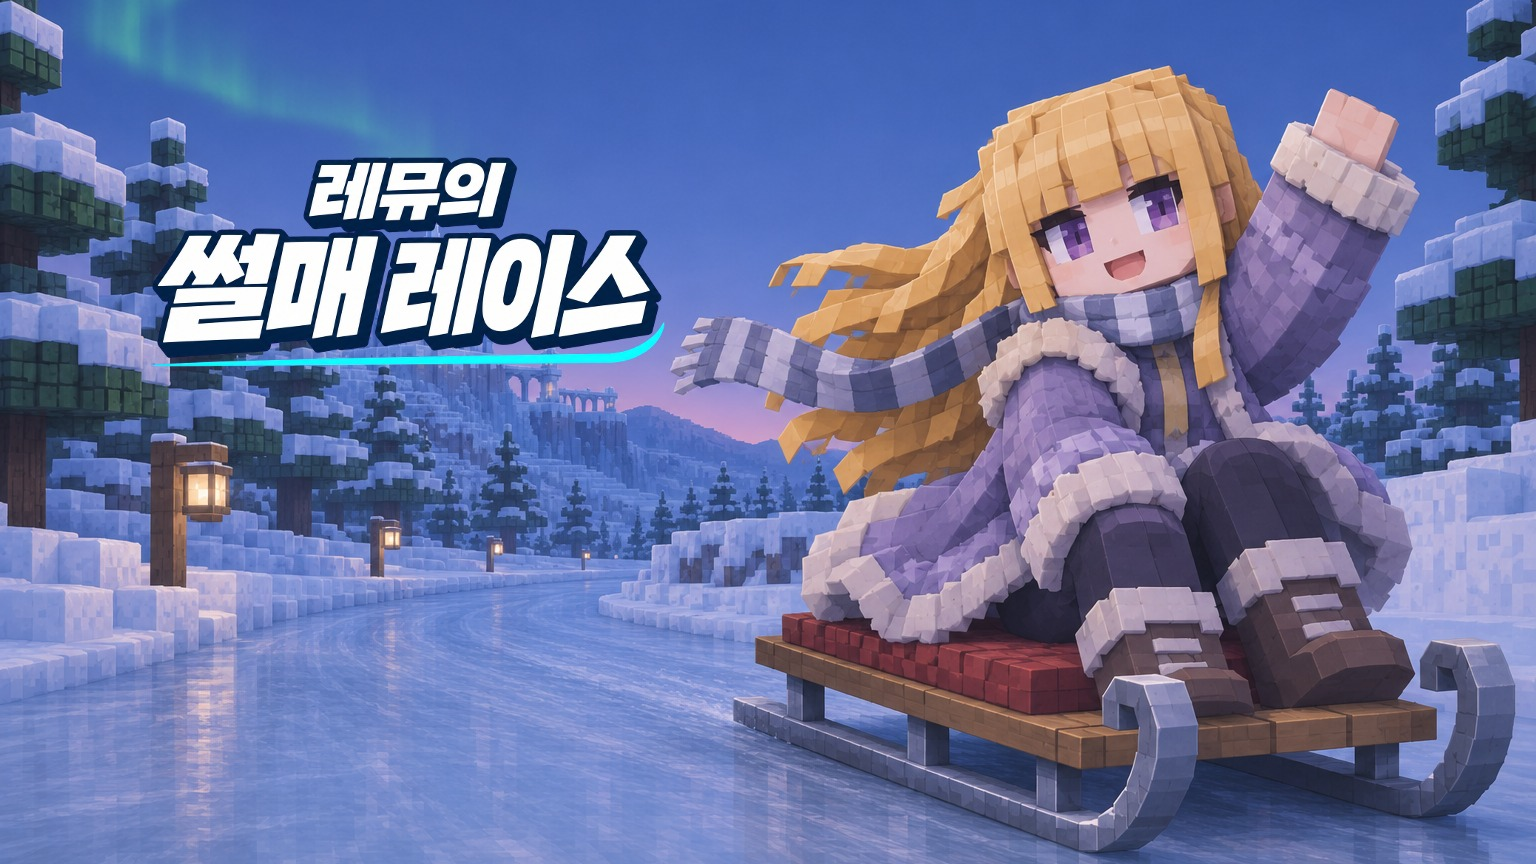
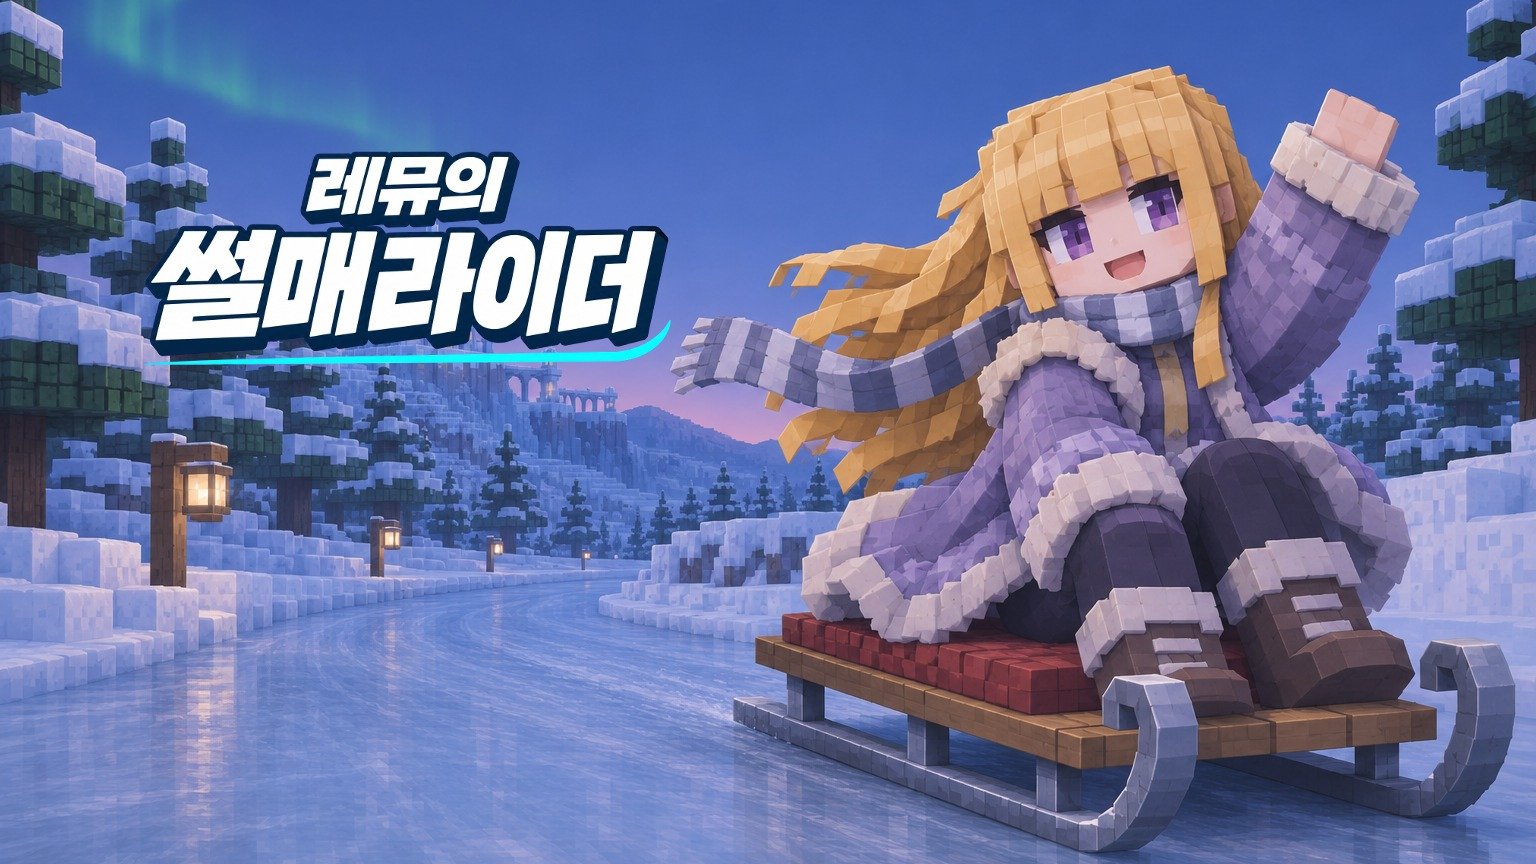
런처 이름을 레뮤의 썰매라이더로 (포스터 행사 이름), 제목 글씨 새로

Changed region(s): [[0.0938, 0.1562, 0.4375, 0.4375]]

diff --git a/app/assets/js/processbuilder.js b/app/assets/js/processbuilder.js
@@ -399,7 +399,7 @@ class ProcessBuilder {
 
         // Java Arguments
         if(process.platform === 'darwin'){
-            args.push('-Xdock:name=레뮤의 썰매 레이스')
+            args.push('-Xdock:name=레뮤의 썰매라이더')
             args.push('-Xdock:icon=' + path.join(__dirname, '..', 'images', 'remyu-icon.icns'))
         }
         args.push('-Xmx' + ConfigManager.getMaxRAM(this.server.rawServer.id))
@@ -450,7 +450,7 @@ class ProcessBuilder {
 
         // Java Arguments
         if(process.platform === 'darwin'){
-            args.push('-Xdock:name=레뮤의 썰매 레이스')
+            args.push('-Xdock:name=레뮤의 썰매라이더')
             args.push('-Xdock:icon=' + path.join(__dirname, '..', 'images', 'remyu-icon.icns'))
         }
         args.push('-Xmx' + ConfigManager.getMaxRAM(this.server.rawServer.id))

diff --git a/app/assets/css/launcher.css b/app/assets/css/launcher.css
@@ -3988,7 +3988,7 @@ button, input, .settingsTabHeaderText, .settingsFieldTitle {
     letter-spacing: normal;
 }
 
-/* ───────── 레뮤의 썰매 레이스: 게임 레이스 화면(어두운 남색 유리 + 전기 하늘색 포인트)과 맞춘 색 ───────── */
+/* ───────── 레뮤의 썰매라이더: 게임 레이스 화면(어두운 남색 유리 + 전기 하늘색 포인트)과 맞춘 색 ───────── */
 #launch_button { color: #ffffff; }
 #launch_button:hover,
 #launch_button:focus { color: #e9fbff; text-shadow: 0px 0px 16px #3fdcff, 0px 0px 28px #3fdcff; }

diff --git a/README.md b/README.md
@@ -1,4 +1,4 @@
-# 레뮤의 썰매 레이스 런처
+# 레뮤의 썰매라이더 런처
 
 레뮤 썰매 서버(마인크래프트 1.21.4, Fabric) 전용 실행기. 모드·리소스팩·쉐이더를 자동으로 받아 주고, 게임이 켜지면 서버로 바로 접속한다.
 바탕: 돈갚아요(린코) 런처 1.0.3 (`claude/rinko-launcher` 6c018e9) ← 무한의 탑 런처 ← 차카데미 런처(Helios 기반).
@@ -7,7 +7,7 @@
 - 저장 폴더: `%APPDATA%\.remyu-launcher` (다른 런처와 따로).
 - 런처 업데이트 목록: 배포 브랜치의 `launcher/latest.yml` (generic, `electron-builder.yml` 의 publish).
 - 그림(코덱스, 레뮤썰매런처gen: parts4.txt·Art.java, 캐릭터 참고 raw/ref_remyu.png): 배경 `app/assets/images/backgrounds/bg.jpg` = 블록 캐릭터 레뮤가 썰매 타는 밤 장면 + 평면 제목(왼쪽 위), 아이콘 `app/assets/images/remyu-icon.png`·`build/icon.png` = 블록 레뮤 썰매 근접.
-- 색: `app/assets/css/launcher.css` 끝의 "레뮤의 썰매 레이스" 묶음 (게임 레이스 화면과 같은 하늘색 포인트).
+- 색: `app/assets/css/launcher.css` 끝의 "레뮤의 썰매라이더" 묶음 (게임 레이스 화면과 같은 하늘색 포인트).
 
 ## 빌드 (호스팅)
 1. 소스를 호스팅 staging 의 새 폴더에 풀고 `launcher-0.1.33-retry-20261109/node_modules` 복사
